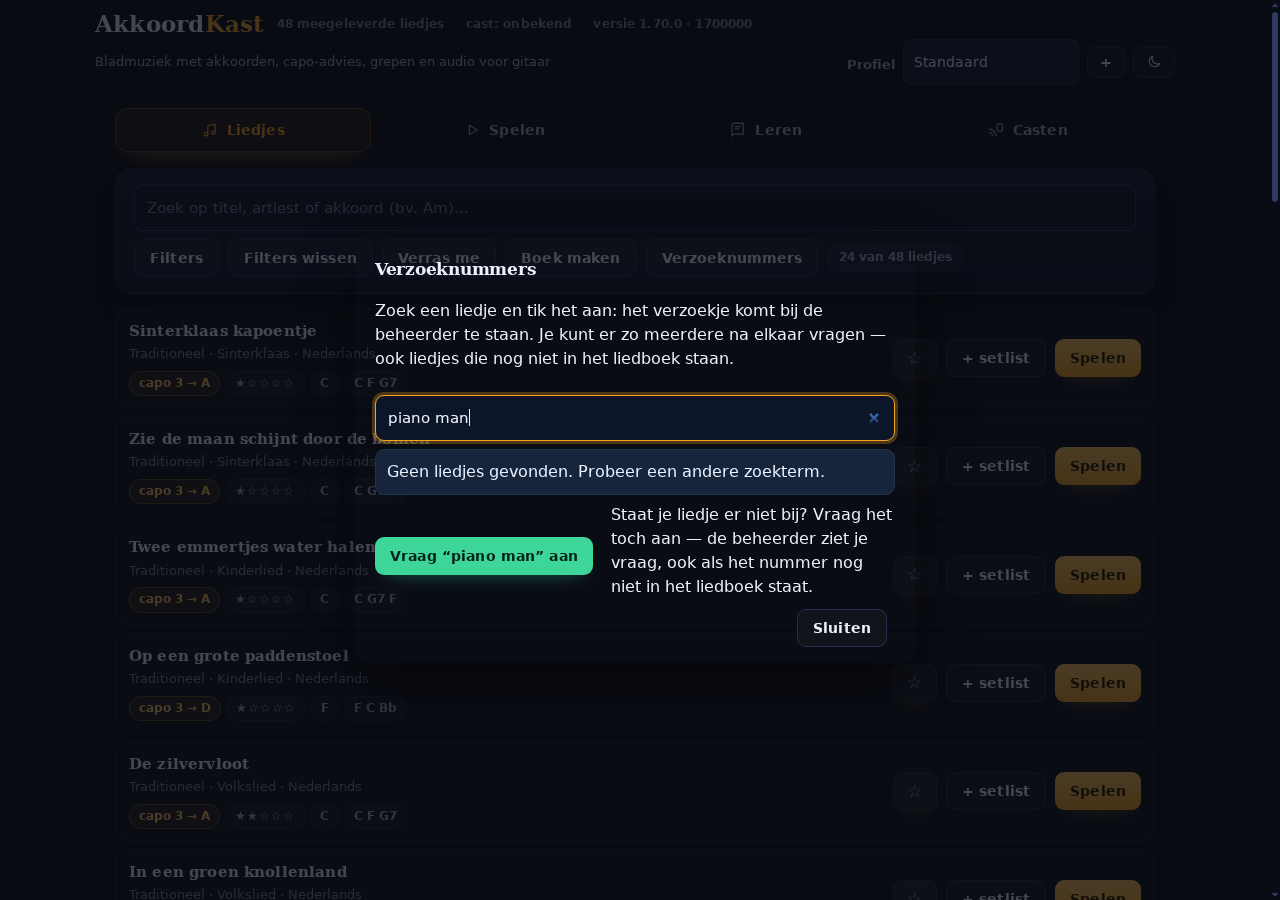
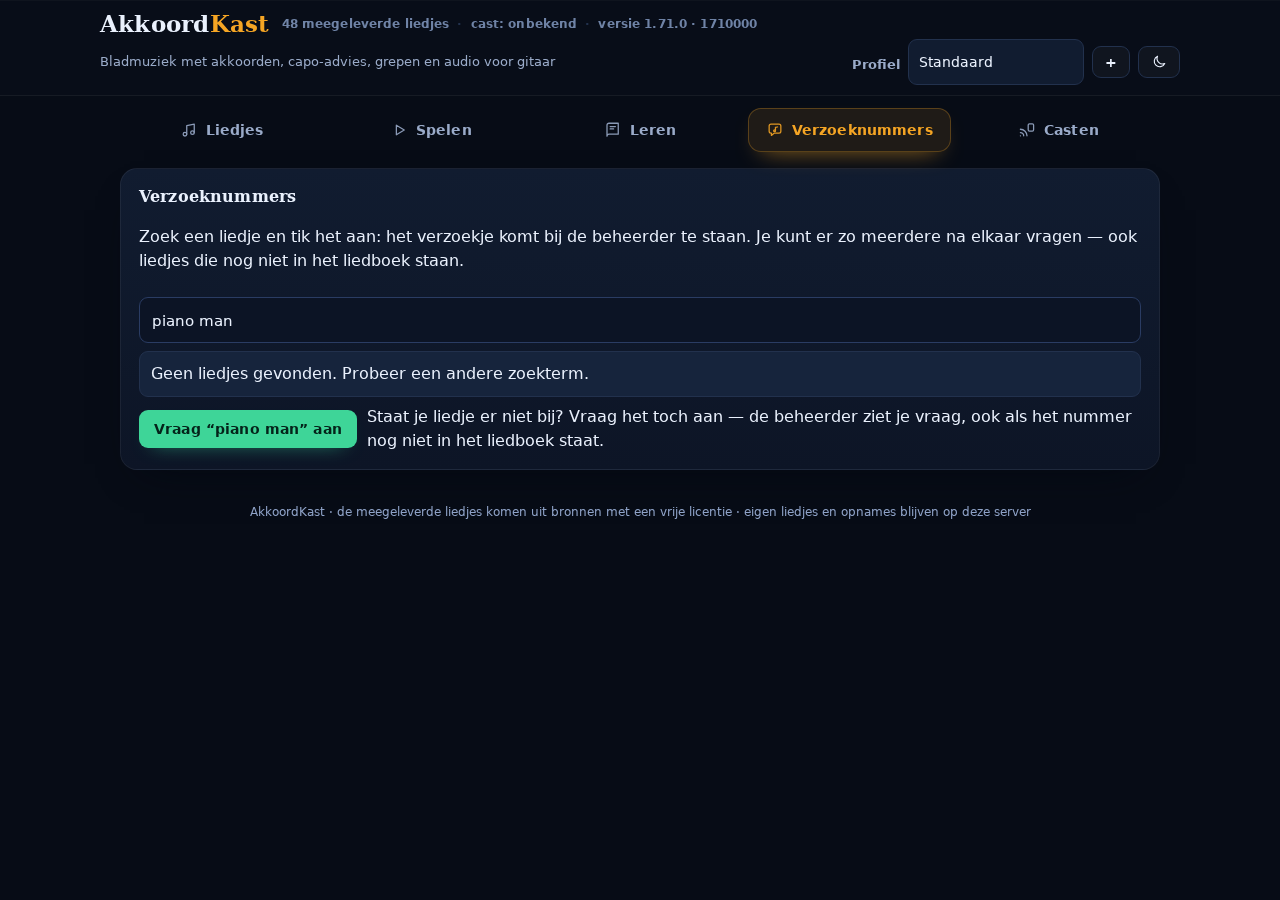
1.71.0: verzoeknummers is nu een eigen tabblad naast Leren
- pagina: nieuw tabblad #tab-verzoeknummers met #paneel-verzoeknummers (zoekvak, lijst, vraag-blok);
  het losse venster van 1.69/1.70 en de werkbalkknop in Liedjes zijn weg. vtOpen/vtSluit vervangen
  door vtLaad() dat bij het openen van het tabblad ververst; je al verzochte liedjes blijven
  'Verzocht ✓' ook na een uitstapje naar een ander tabblad. Deep link: .../#verzoeknummers
- tabbalk: op een telefoon nu een rooster van drie, zodat zes tabbladen leesbaar blijven
- tests: TABS-assertie + vernieuwde verzoektool-tests (421 totaal groen)
- proef: demo door de echte pagina — tabblad openen (desktop + telefoonformaat), 'piano man'
  gevraagd, gewoon liedje gevraagd, beheerder zag beide correct, weggooien werkte; 5 nieuwe beelden

diff --git a/public/index.html b/public/index.html
@@ -900,7 +900,7 @@
   }
   @media (max-width:760px){
     header{padding:10px 14px 8px}
-    nav{padding:10px 14px 0;gap:4px}
+    nav{display:grid;grid-template-columns:repeat(3,minmax(0,1fr));padding:10px 14px 0;gap:6px}
     nav button{flex-direction:column;gap:3px;min-height:52px;padding:6px 4px;font-size:.74rem}
     main{padding:14px 14px 50px}
     .kaart{padding:14px;border-radius:var(--r)}
@@ -1061,6 +1061,7 @@
   <button id="tab-liedjes" class="actief" data-paneel="paneel-liedjes"><span class="ic" aria-hidden="true"><svg viewBox='0 0 24 24' fill='none' stroke='currentColor' stroke-width='1.7' stroke-linecap='round' stroke-linejoin='round'><path d='M9 17.5V6.2l10-1.9v11.2'/><circle cx='6.6' cy='17.6' r='2.4'/><circle cx='16.6' cy='15.5' r='2.4'/></svg></span><span>Liedjes</span></button>
   <button id="tab-spelen" data-paneel="paneel-spelen"><span class="ic" aria-hidden="true"><svg viewBox='0 0 24 24' fill='none' stroke='currentColor' stroke-width='1.7' stroke-linecap='round' stroke-linejoin='round'><path d='M8.5 5.6v12.8L19 12z'/></svg></span><span>Spelen</span></button>
   <button id="tab-leren" data-paneel="paneel-leren"><span class="ic" aria-hidden="true"><svg viewBox='0 0 24 24' fill='none' stroke='currentColor' stroke-width='1.7' stroke-linecap='round' stroke-linejoin='round'><path d='M4 5.6A2.6 2.6 0 0 1 6.6 3H19v14.6H6.6A2.6 2.6 0 0 0 4 20.2z'/><path d='M8.2 7.4h7M8.2 10.6h4.6'/></svg></span><span>Leren</span></button>
+  <button id="tab-verzoeknummers" data-paneel="paneel-verzoeknummers"><span class="ic" aria-hidden="true"><svg viewBox='0 0 24 24' fill='none' stroke='currentColor' stroke-width='1.7' stroke-linecap='round' stroke-linejoin='round'><path d='M4.2 6.7A2.5 2.5 0 0 1 6.7 4.2h10.6a2.5 2.5 0 0 1 2.5 2.5v7.1a2.5 2.5 0 0 1-2.5 2.5h-6.5l-3.6 2.9v-2.9h-.5a2.5 2.5 0 0 1-2.5-2.5z'/><path d='M12.6 13V8.6l2.8-.6'/><circle cx='11.4' cy='13' r='1.2'/></svg></span><span>Verzoeknummers</span></button>
   <button id="tab-toevoegen" data-paneel="paneel-toevoegen"><span class="ic" aria-hidden="true"><svg viewBox='0 0 24 24' fill='none' stroke='currentColor' stroke-width='1.7' stroke-linecap='round' stroke-linejoin='round'><path d='M12 5.5v13M5.5 12h13'/></svg></span><span>Toevoegen</span></button>
   <button id="tab-casten" data-paneel="paneel-casten"><span class="ic" aria-hidden="true"><svg viewBox='0 0 24 24' fill='none' stroke='currentColor' stroke-width='1.7' stroke-linecap='round' stroke-linejoin='round'><path d='M3.2 19.8h.1M3.2 15.4a4.4 4.4 0 0 1 4.4 4.4M3.2 11a8.8 8.8 0 0 1 8.8 8.8'/><rect x='13.6' y='3.8' width='7.2' height='9.6' rx='1.6'/></svg></span><span>Casten</span></button>
 </nav>
@@ -1108,7 +1109,6 @@
         <button class="knop zacht" id="filter-wis">Filters wissen</button>
         <button class="knop zacht" id="verras-knop" title="Een willekeurig liedje uit wat je nu gekozen hebt">Verras me</button>
         <button class="knop zacht" id="boek-printen" title="Alle liedjes van deze selectie als één document">Boek maken</button>
-        <button class="knop zacht" id="verzoek-tool-knop" title="Zoek liedjes en vraag ze met één tik aan bij de beheerder">Verzoeknummers</button>
         <span class="pilletje" id="lijst-teller">…</span>
       </div>
       <div class="melding" id="lijst-melding" hidden></div>
@@ -1669,6 +1669,24 @@
     </div>
   </section>
 
+  <!-- ------------------------------------------------ verzoeknummers -->
+  <section id="paneel-verzoeknummers" class="paneel">
+    <!-- Een eigen tabblad om nummers te vragen: zoeken in het liedboek en met één tik vragen,
+         zonder het liedje te openen. Meerdere na elkaar mag; de beheerder ziet ze bij de
+         verzoekjes. Ook liedjes die nog niet in het liedboek staan kun je vragen. -->
+    <div class="kaart">
+      <h2>Verzoeknummers</h2>
+      <p class="meta">Zoek een liedje en tik het aan: het verzoekje komt bij de beheerder te staan. Je kunt er zo meerdere na elkaar vragen — ook liedjes die nog niet in het liedboek staan.</p>
+      <input id="vt-zoek" type="search" placeholder="Zoek op titel of artiest…" autocomplete="off">
+      <div class="melding" id="vt-melding" hidden></div>
+      <div class="vt-lijst" id="vt-lijst"></div>
+      <div class="vt-vraag" id="vt-vraag" hidden>
+        <button class="knop goed" id="vt-vraag-knop">Vraag het toch aan</button>
+        <span class="meta">Staat je liedje er niet bij? Vraag het toch aan — de beheerder ziet je vraag, ook als het nummer nog niet in het liedboek staat.</span>
+      </div>
+    </div>
+  </section>
+
   <!-- ------------------------------------------------ toevoegen -->
   <section id="paneel-toevoegen" class="paneel">
     <!-- Muziek toevoegen hoort bij de beheerder. Iedereen kan zoeken, spelen en leren; de
@@ -1685,7 +1703,7 @@
       <h2>Verzoekjes <span class="pilletje" id="verzoek-teller" hidden></span></h2>
       <p class="meta">Liedjes waar iemand om vroeg — uit een ander profiel, of van iemand die even
         meekeek. Iemand vraagt er eentje aan met de knop <strong>Verzoek</strong> bij het liedje of
-        via <strong>Verzoeknummers</strong> in het tabblad Liedjes; hier zie je ze staan en vink je
+        via het tabblad <strong>Verzoeknummers</strong>; hier zie je ze staan en vink je
         ze af als ze gedaan zijn.</p>
       <div class="rij" style="margin:8px 0">
         <button class="knop zacht" id="verzoek-ververs" title="Opnieuw kijken of er nieuwe verzoekjes zijn">Verversen</button>
@@ -2219,22 +2237,8 @@
   <div id="boek-inhoud"></div>
 </section>
 
-<!-- De verzoeknummers-tool: zoeken in het liedboek en met één tik vragen, zonder het liedje te
-     openen. Meerdere na elkaar mag; de beheerder ziet ze bij de verzoekjes. -->
-<div id="verzoek-tool" class="slot" role="dialog" aria-modal="true" aria-labelledby="vt-kop">
-  <div class="slot-kaart" style="max-width:560px">
-    <h3 id="vt-kop">Verzoeknummers</h3>
-    <p class="meta">Zoek een liedje en tik het aan: het verzoekje komt bij de beheerder te staan. Je kunt er zo meerdere na elkaar vragen — ook liedjes die nog niet in het liedboek staan.</p>
-    <input id="vt-zoek" type="search" placeholder="Zoek op titel of artiest…" autocomplete="off">
-    <div class="melding" id="vt-melding" hidden></div>
-    <div class="vt-lijst" id="vt-lijst"></div>
-    <div class="vt-vraag" id="vt-vraag" hidden>
-      <button class="knop goed" id="vt-vraag-knop">Vraag het toch aan</button>
-      <span class="meta">Staat je liedje er niet bij? Vraag het toch aan — de beheerder ziet je vraag, ook als het nummer nog niet in het liedboek staat.</span>
-    </div>
-    <div class="rij" style="justify-content:flex-end"><button class="knop zacht" id="vt-sluiten">Sluiten</button></div>
-  </div>
-</div>
+<!-- De verzoeknummers horen bij het eigen tabblad Verzoeknummers; zie paneel-verzoeknummers. -->
+
 
 <div id="profiel-slot" class="slot" role="dialog" aria-modal="true" aria-labelledby="slot-kop">
   <div class="slot-kaart">
@@ -2311,7 +2315,7 @@ function toonMelding(id, tekst, soort) {
 }
 
 // --------------------------------------------------------------- navigatie ---
-var TABS = ['liedjes', 'spelen', 'leren', 'toevoegen', 'casten'];
+var TABS = ['liedjes', 'spelen', 'leren', 'verzoeknummers', 'toevoegen', 'casten'];
 TABS.forEach(function (naam) {
   $('tab-' + naam).addEventListener('click', function () { toonTab(naam); });
 });
@@ -2322,6 +2326,7 @@ function toonTab(naam) {
   });
   if (naam === 'casten') laadApparaten(true);
   if (naam === 'leren') laadLeren();
+  if (naam === 'verzoeknummers') vtLaad();
   houdSchermAan(naam === 'spelen');
   window.scrollTo(0, 0);
 }
@@ -9971,7 +9976,7 @@ function tekenVerzoeken(lijst) {
     teller.textContent = open.length === 1 ? '1 open' : open.length + ' open';
   }
   if (!lijst.length) {
-    houder.innerHTML = '<div class="meta">Er zijn nog geen verzoekjes. Iemand vraagt er eentje aan met de knop <strong>Verzoek</strong> bij een liedje, of via <strong>Verzoeknummers</strong> in het tabblad Liedjes.</div>';
+    houder.innerHTML = '<div class="meta">Er zijn nog geen verzoekjes. Iemand vraagt er eentje aan met de knop <strong>Verzoek</strong> bij een liedje, of via het tabblad <strong>Verzoeknummers</strong>.</div>';
     return;
   }
   houder.innerHTML = lijst.map(function (v) {
@@ -10064,23 +10069,21 @@ $('verzoek-lijst').addEventListener('click', function (e) {
 $('verzoek-ververs').addEventListener('click', function () { laadVerzoeken(); });
 laadVerzoeken(true);
 
-// De verzoeknummers-tool: een eigen scherm om in het liedboek te zoeken en met één tik te vragen —
-// zonder het liedje te openen, en gerust meerdere na elkaar (op een feestje bijvoorbeeld). Hij
-// herkent je al openstaande verzoekjes, zodat je ze niet dubbel doet.
-var VT = { open: [], laatste: [], zoekTimer: null };
-function vtOpen() {
-  var vak = $('verzoek-tool');
-  if (!vak) return;
-  vak.classList.add('aan');
-  $('vt-zoek').value = '';
-  toonMelding('vt-melding', '');
+// Het tabblad Verzoeknummers: zoek in het liedboek en vraag met één tik — zonder het liedje te
+// openen, en gerust meerdere na elkaar (op een feestje bijvoorbeeld). Hij herkent je al
+// openstaande verzoekjes, zodat je ze niet dubbel doet. Je kunt het tabblad ook direct openen met
+// .../#verzoeknummers.
+var VT = { open: [], laatste: [], zoekTimer: null, geladen: false };
+// Draait als je het tabblad opent: je al openstaande verzoekjes en de lijst verversen.
+function vtLaad() {
   vtLaadOpen();
-  vtZoek('');
-  setTimeout(function () { var z = $('vt-zoek'); if (z) z.focus(); }, 60);
-}
-function vtSluit() {
-  var vak = $('verzoek-tool');
-  if (vak) vak.classList.remove('aan');
+  var z = $('vt-zoek');
+  if (!VT.geladen) {
+    VT.geladen = true;
+    z.value = '';
+    toonMelding('vt-melding', '');
+  }
+  vtZoek(z.value);
 }
 function vtLaadOpen() {
   laadVerzoeken(true).then(function (d) {
@@ -10127,9 +10130,6 @@ function vtToonVraag(tekst) {
   vak.hidden = !tonen;
   if (tonen) knop.textContent = 'Vraag \u201c' + t + '\u201d aan';
 }
-$('verzoek-tool-knop').addEventListener('click', vtOpen);
-$('vt-sluiten').addEventListener('click', vtSluit);
-$('verzoek-tool').addEventListener('click', function (e) { if (e.target === this) vtSluit(); });
 $('vt-zoek').addEventListener('input', function () {
   var tekst = this.value;
   clearTimeout(VT.zoekTimer);
@@ -10158,10 +10158,6 @@ $('vt-vraag-knop').addEventListener('click', function () {
     herstel: 'Vraag \u201c' + t + '\u201d aan'
   });
 });
-document.addEventListener('keydown', function (e) {
-  if (e.key === 'Escape' && $('verzoek-tool').classList.contains('aan')) vtSluit();
-});
-
 // ----------------------------------------------------------------- showplan ---
 // Hoe lang duurt het optreden? Van de liedjes van de gekozen setlist maakt de app een tijdlijn: per
 // liedje een geschatte speeltijd (aan te passen), een praatje ertussen, en hoe laat elk liedje

diff --git a/test/verzoektool.test.js b/test/verzoektool.test.js
@@ -1,7 +1,7 @@
 'use strict';
-// De verzoeknummers-tool: een eigen scherm in het tabblad Liedjes waarmee je in het liedboek zoekt
-// en met één tik verzoekjes doet — meerdere na elkaar, zonder het liedje te openen. Dit dekt de
-// bedrading in de pagina en het veld waarop de tool "al verzocht" herkent.
+// De verzoeknummers: een eigen tabblad naast Leren waarmee je in het liedboek zoekt en met één tik
+// verzoekjes doet — meerdere na elkaar, zonder het liedje te openen. Dit dekt de bedrading in de
+// pagina en het veld waarop de tool "al verzocht" herkent.
 const test = require('node:test');
 const assert = require('node:assert');
 const fs = require('node:fs');
@@ -10,19 +10,25 @@ const hulp = require('./hulp.js');
 
 const PAGINA = () => fs.readFileSync(path.join(__dirname, '..', 'public', 'index.html'), 'utf8');
 
-test('de tool staat in de werkbalk van het liedboek en heeft een eigen scherm', () => {
+test('de tool is een eigen tabblad naast Leren en heeft een eigen scherm', () => {
   const html = PAGINA();
-  for (const id of ['verzoek-tool-knop', 'verzoek-tool', 'vt-zoek', 'vt-lijst', 'vt-melding', 'vt-sluiten', 'vt-vraag', 'vt-vraag-knop']) {
+  assert.match(html, /var TABS = \[[^\]]*'verzoeknummers'/);
+  assert.match(html, /if \(naam === 'verzoeknummers'\) vtLaad\(\)/);
+  for (const id of ['tab-verzoeknummers', 'paneel-verzoeknummers', 'vt-zoek', 'vt-lijst', 'vt-melding', 'vt-vraag', 'vt-vraag-knop']) {
     assert.ok(html.includes('id="' + id + '"'), 'de pagina hoort ' + id + ' te hebben');
   }
-  for (const fn of ['function vtOpen(', 'function vtSluit(', 'function vtZoek(', 'function vtToonVraag(', 'function tekenVtLijst(', 'function vtLaadOpen(']) {
+  for (const fn of ['function vtLaad(', 'function vtLaadOpen(', 'function vtZoek(', 'function vtToonVraag(', 'function tekenVtLijst(']) {
     assert.ok(html.includes(fn), 'de functie hoort te bestaan: ' + fn);
   }
-  assert.ok(html.includes('>Verzoeknummers<'), 'de knop hoort Verzoeknummers te heten');
+  assert.ok(html.includes('>Verzoeknummers<'), 'het tabblad hoort Verzoeknummers te heten');
+  // Het losse venster en de werkbalkknop van 1.69/1.70 zijn vervangen door het tabblad.
+  assert.ok(!html.includes('id="verzoek-tool"'), 'het oude losse venster hoort weg te zijn');
+  assert.ok(!html.includes('id="verzoek-tool-knop"'), 'de oude werkbalkknop hoort weg te zijn');
 });
 
 test('de tool zoekt in het liedboek en hergebruikt het verzoekje-versturen', () => {
   const html = PAGINA();
+  assert.ok(html.includes('<section id="paneel-verzoeknummers" class="paneel">'), 'de tool hoort een eigen paneel te hebben');
   assert.ok(html.includes("api('/api/liedjes?compact=1&aantal=30'"), 'de tool hoort via de api()-helper te zoeken');
   assert.ok(html.includes("meldingId: 'vt-melding'"), 'de melding hoort in de tool zelf te komen');
   assert.ok(html.includes('blijvend: true'), 'in de tool blijft "Verzocht" staan, ook na vier seconden');

diff --git a/test/app.test.js b/test/app.test.js
@@ -436,7 +436,7 @@ test('het liedpaneel heeft een eigen start- en stopknop bij het spelen', () => {
 test('de leermodus staat in de pagina: leslijst, trainer, stemmen, ritme en grepen', () => {
   const html = fs.readFileSync(path.join(__dirname, '..', 'public', 'index.html'), 'utf8');
   assert.match(html, /id="tab-leren"[^>]*data-paneel="paneel-leren"/);
-  assert.match(html, /var TABS = \['liedjes', 'spelen', 'leren', 'toevoegen', 'casten'\]/);
+  assert.match(html, /var TABS = \['liedjes', 'spelen', 'leren', 'verzoeknummers', 'toevoegen', 'casten'\]/);
   for (const id of ['paneel-leren', 'leren-lessen', 'leren-balk', 'leren-voortgang', 'trein-set', 'trein-tempo',
     'trein-maten', 'trein-start', 'trein-stop', 'trein-akkoord', 'trein-volgend', 'trein-greep', 'trein-tellen',
     'trein-stats', 'stem-rij', 'ritme-rij', 'ritme-start', 'ritme-stop', 'ritme-tellen', 'ritme-uitleg', 'leren-grepen',

diff --git a/public/sw.js b/public/sw.js
@@ -5,7 +5,7 @@
 // alleen wat je zélf klaarzette, komt uit de voorraad (en wordt bij nieuwere data bijgewerkt).
 importScripts('/lib/offline.js');
 
-const CACHE = 'akkoordkast-v110';
+const CACHE = 'akkoordkast-v111';
 // Deze bestanden komen ALTIJD eerst van de server. Ze zijn klein, en zo zie je na een bijwerking meteen
 // de nieuwe versie in plaats van de oude uit de cache - dat kostte eerder een tweede keer laden, waardoor
 // een melding die al weg was toch bleef staan.

diff --git a/server.js b/server.js
@@ -40,7 +40,7 @@ const CAST_HELPER = process.env.CAST_HELPER
   : path.join(__dirname, 'scripts', 'cast-helper.py');
 const EIGEN_START = 900000;
 const GESTART = new Date().toISOString();
-const VERSIE = '1.70.0';
+const VERSIE = '1.71.0';
 // Een update-script binnen de container mag alleen als het er echt staat en
 // uitvoerbaar is; standaard is dat niet zo, want bijwerken hoort op de host te
 // gebeuren (daar zit pct en systemctl).

diff --git a/README.md b/README.md
@@ -73,7 +73,7 @@ de handleiding in de app zelf (knop **Handleiding openen**) · [installeren op P
 | ![weetje](docs/img/akkoordkast-weetje-van-de-dag-nov-2026.png) | **Weetje van de dag** — elke dag een ander weetje over gitaar, muziek en liedjes, met een knop om door te schuiven; het werkt zonder internet. |
 | ![lichte weergave](docs/img/akkoordkast-lichte-weergave-liedjes-nov-2026.png) | **Lichte of donkere weergave** — de app is donker; voor buiten in de zon is er een lichte weergave, of laat hem je toestel volgen. De knop staat in de kop. |
 | ![verzoekjes](docs/img/akkoordkast-verzoekjes-inbox-nov-2026.png) | **Verzoekjes** — met de knop *Verzoek* bij een liedje vraagt een ander profiel om een nummer; de beheerder ziet de verzoekjes in het tabblad Toevoegen en vinkt ze af of gooit ze weg. |
-| ![verzoeknummers](docs/img/akkoordkast-verzoeknummers-tool-nov-2026.png) | **Verzoeknummers** — een eigen scherm in het tabblad Liedjes: zoek een liedje en tik het aan om het bij de beheerder aan te vragen — meerdere na elkaar, zonder de liedjes te openen. Ook liedjes die nog niet in het liedboek staan kun je vragen. |
+| ![verzoeknummers](docs/img/akkoordkast-verzoeknummers-tab-nov-2026.png) | **Verzoeknummers** — een eigen tabblad naast *Leren*: zoek een liedje en tik het aan om het bij de beheerder aan te vragen — meerdere na elkaar, zonder de liedjes te openen. Ook liedjes die nog niet in het liedboek staan kun je vragen. |
 | ![akkoordenboek](docs/img/akkoordenboek.png) | **Akkoordenboek** — van elk akkoord alle posities over de hals, met het vaknummer en een uitleg, en een knop om er een grepenkaart van te printen. |
 | ![wachter](docs/img/wachter.png) | **Automatisch bijhouden** — de app kijkt zelf in je muziekmap en naar nieuwe versies op GitHub, en schrijft op wat er gedaan is. |
 | ![beheer](docs/img/beheer.png) | **Beheer en bijwerken** — welke versie er draait, of er iets nieuws klaarstaat op GitHub, en in één klik bijwerken als deze machine daarop is ingericht. |
@@ -228,11 +228,11 @@ in plaats van wav. Geen npm-afhankelijkheden.
 - **Verzoekjes.** Iemand met een eigen profiel vraagt met één knop bij het liedje om een nummer; de
   beheerder ziet de verzoekjes (met naam en tijd) in het tabblad Toevoegen en vinkt ze af of gooit
   ze weg. Vragen ze hetzelfde liedje nog eens, dan blijft het één verzoekje.
-- **Verzoeknummers.** Een eigen scherm in het tabblad Liedjes (knop *Verzoeknummers*): zoek een
-  liedje en tik het aan om het aan te vragen — zonder het liedje te openen, en gerust meerdere na
-  elkaar. Wat je al vroeg staat er meteen als *Verzocht ✓*; dat weet de tool ook na sluiten en
-  heropenen. Staat je liedje er niet bij? Typ de titel en tik op *Vraag "…" aan* — ook liedjes die
-  nog niet in het liedboek staan kun je vragen; de beheerder ziet erbij dat het nummer er nog niet is.
+- **Verzoeknummers.** Een eigen tabblad naast *Leren*: zoek een liedje en tik het aan om het aan te
+  vragen — zonder het liedje te openen, en gerust meerdere na elkaar. Wat je al vroeg staat meteen
+  als *Verzocht ✓*; dat weet de tool ook als je even naar een ander tabblad gaat. Staat je liedje er
+  niet bij? Typ de titel en tik op *Vraag "…" aan* — ook liedjes die nog niet in het liedboek staan
+  kun je vragen; de beheerder ziet erbij dat het nummer er nog niet is.
 - **PWA.** Installeerbaar op je telefoon, met de app-schil in de cache maar liedjes, audio en
   cast-status altijd live.
 

diff --git a/CHANGELOG.md b/CHANGELOG.md
@@ -3,6 +3,16 @@
 Alles wat de app in huis heeft staat in de [README](README.md); hier staat per versie wat er
 nieuw is, wat er veranderd is en wat er gerepareerd is.
 
+## [1.71.0] — 15 november 2026
+
+### Verzoeknummers is nu een eigen tabblad
+
+- De verzoeknummers zijn verhuisd van een los venster (knop in de werkbalk van Liedjes) naar een
+  eigen tabblad naast *Leren* — net als de andere onderdelen staan ze in de tabbalk. Het tabblad is
+  ook direct te openen met `.../#verzoeknummers`.
+- Op een telefoon staan de tabbladen nu in een rooster van drie, zodat alles leesbaar blijft naast
+  het extra tabblad.
+
 ## [1.70.0] — 15 november 2026
 
 ### Ook liedjes van buiten het liedboek kun je vragen
